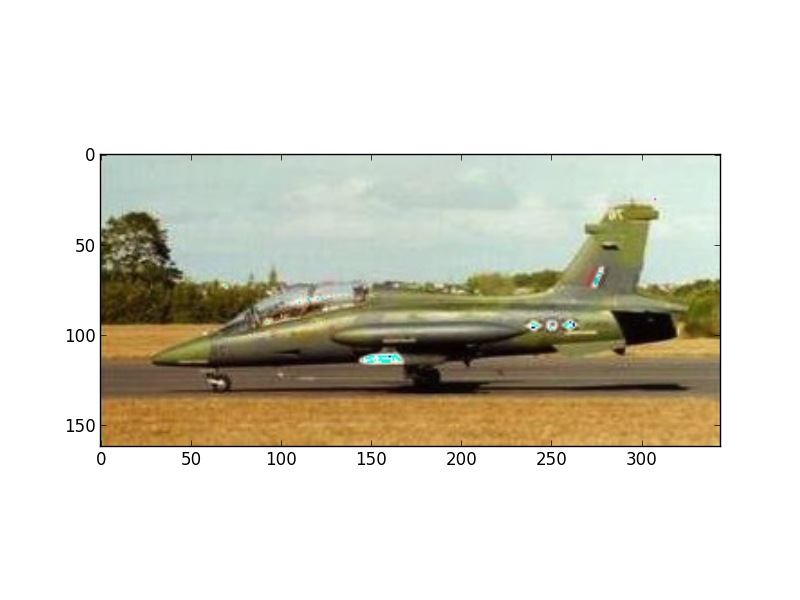
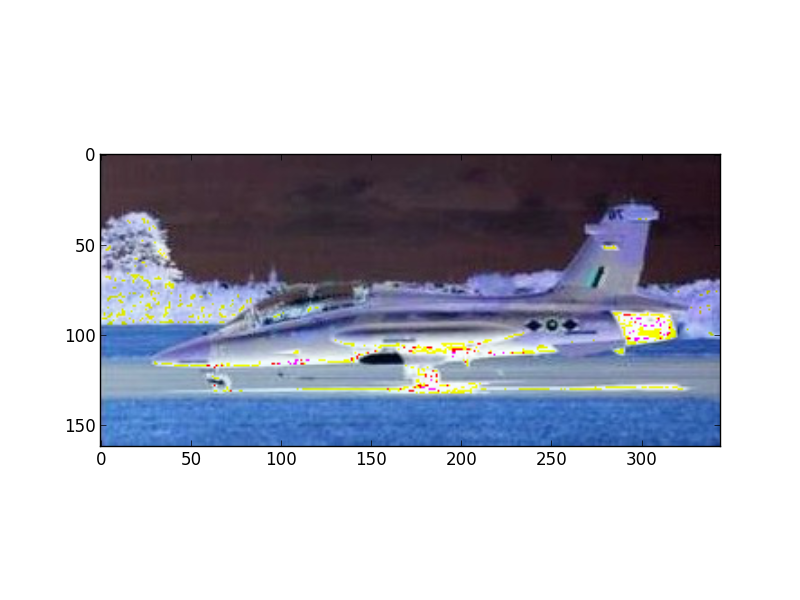
Corrected a bug that caused the colors channels to be reversed.  Still didn't find the cause, but I was able to correct the error.

diff --git a/hw5/image_server.py b/hw5/image_server.py
@@ -42,11 +42,12 @@ class lossless_image_manipulation:
 				list_of_rows_reversed = [row[::-1] for row in list_of_rows]
 				reversed_array = np.asarray(list_of_rows_reversed)
 				mirror[:,:,i] = reversed_array
+		#include this line because all coler channels are getting inexplicably reversed
+		mirror = 255-mirror
 		plt.imshow(mirror)
 		plt.savefig("%s_mirror_server.png" %img_name)
-		#return array_to_list(mirror)
-		#trying this return instead since color channels seem inverted
-		return array_to_list(255-mirror)
+		return array_to_list(mirror)
+
 
 	def invert_color_channels(self,img_list,img_shape,img_name):
 		"""Reverses the color channels of the image
@@ -60,11 +61,12 @@ class lossless_image_manipulation:
 
 		#invert the image
 		invert_img = 255 - img_array
+		#include this line because all coler channels are getting inexplicably reversed
+		invert_img = 255-invert_img
 		plt.imshow(invert_img)
 		plt.savefig("%s_invert_server.png" %img_name)
-		#return array_to_list(invert_img)
-		#trying this return instead since color channels seem inverted
-		return array_to_list(255-invert_img)
+		return array_to_list(invert_img)
+
 
 
 	def permute_color_channels(self,img_list,img_shape,img_name):
@@ -85,11 +87,12 @@ class lossless_image_manipulation:
 				permute_img[:,:,i]=img_array[:,:,j]
 		else:
 			permute_img = img_array
+		#include this line because all coler channels are getting inexplicably reversed
+		permute_img = 255-permute_img
 		plt.imshow(permute_img)
 		plt.savefig("%s_permute_server.png" %img_name)
-		#return array_to_list(permute_img)
-		#trying this return instead since color channels seem inverted
-		return array_to_list(255-permute_img)
+		return array_to_list(permute_img)
+
 
 	#just a test function to see how the client server pair works
 	def return_gray_scale(self,img_list,img_shape):

diff --git a/hw5/image_client.py b/hw5/image_client.py
@@ -37,7 +37,6 @@ def call_mirror_image(img_path, img_name):
 	#convert the list back to an image array
 	nd_result = np.asarray(result)
 	reshaped_nd_result = np.reshape(nd_result, nd_img_shape)
-
 	#plot and save the image
 	plt.imshow(reshaped_nd_result, cmap='gray')
 	plt.savefig("%s_mirror_client.png" %img_name)
@@ -59,7 +58,6 @@ def call_invert_color_channels(img_path, img_name):
 	#convert the list back to an image array
 	nd_result = np.asarray(result)
 	reshaped_nd_result = np.reshape(nd_result, nd_img_shape)
-
 	#plot and save the image
 	plt.imshow(reshaped_nd_result, cmap='gray')
 	plt.savefig("%s_invert_client.png" %img_name)
@@ -81,7 +79,6 @@ def call_permute_color_channels(img_path, img_name):
 	#convert the list back to an image array
 	nd_result = np.asarray(result)
 	reshaped_nd_result = np.reshape(nd_result, nd_img_shape)
-
 	#plot and save the image
 	plt.imshow(reshaped_nd_result, cmap='gray')
 	plt.savefig("%s_permute_client.png" %img_name)
